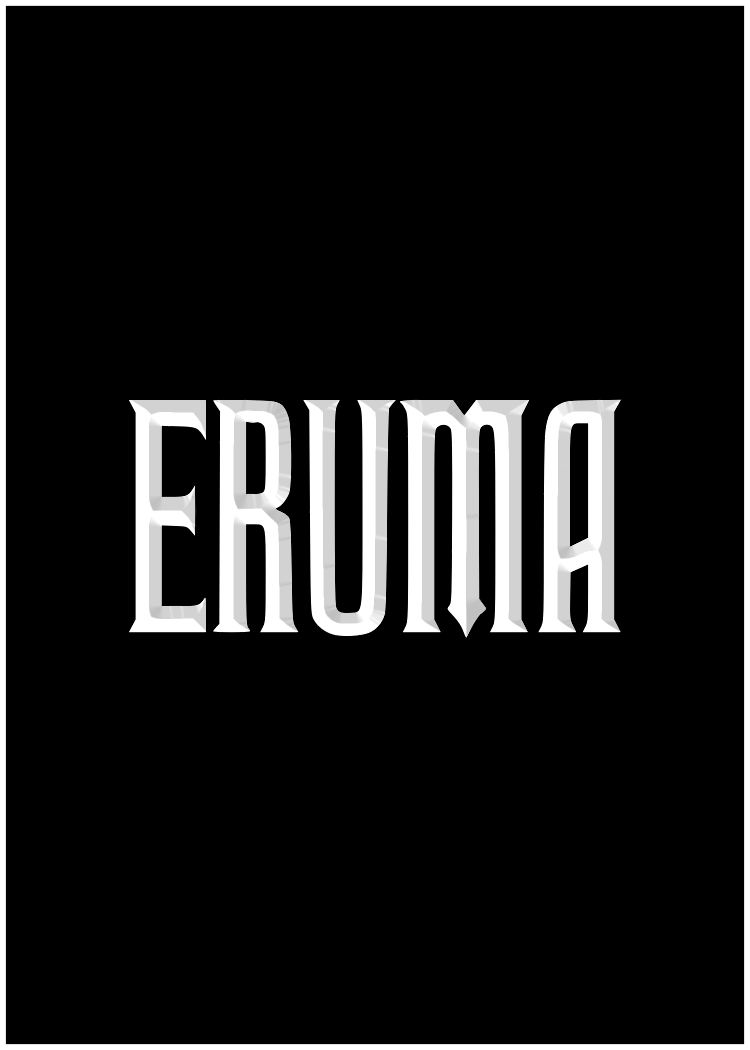
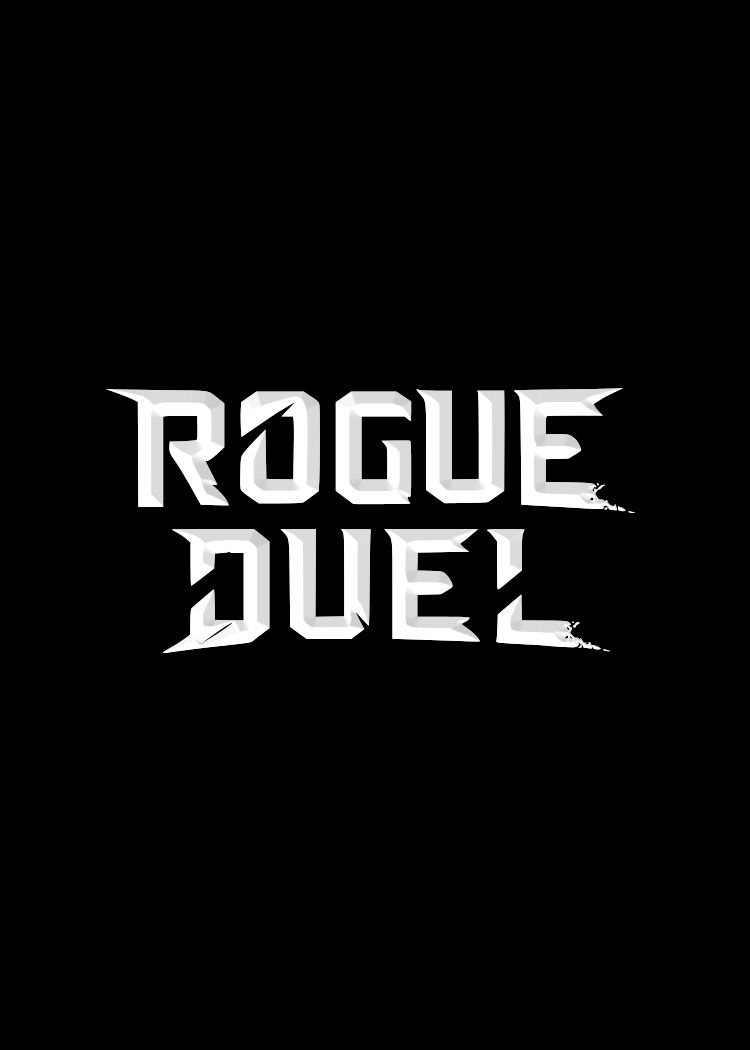
deckbuilder updates v18

Changed region(s): [[0.1533, 0.3657, 0.828, 0.64], [0.0, 0.0, 1.0, 1.0]]

diff --git a/cardsen/cardlisten.html b/cardsen/cardlisten.html
@@ -2,7 +2,7 @@
 <html lang="en">
 <head>
     <meta charset="UTF-8">
-    <title>Eruma Card Game Deckbuilder</title>
+    <title>Rogue Duel Deckbuilder</title>
     <style>
         /* Reset de estilos e ajustes gerais */
         body, html {
@@ -193,21 +193,21 @@
         // Função para carregar o arquivo de texto
         function loadTextFile() {
             const content = `Charlotte	|Assassin|	Kill 1 card in any position.	| 	|deckbuildercards_001.png
-Makuna	|Assassin|	Kill 2 Henchmen in any position.	| Impetuous	|deckbuildercards_002.png
+Makuna	|Assassin|	Kill 2 Henchmen in any position.	| 	|deckbuildercards_002.png
 Shimaru	|Assassin|	Whenever an enemy card flips face-up during this turn, kill it.	| Evasive	|deckbuildercards_003.png
-Picard and Boulle	|Assassin|	Kill 1 "Invulnerable" type card in any position.	| Slayer	|deckbuildercards_004.png
+Sicarii	|Assassin|	Kill 1 "Invulnerable" type card in any position.	| Slayer	|deckbuildercards_004.png
 Beetrice	|Assassin|	Whenever an enemy card steals a treasure during the opponent's turn, kill it.	| Flying	|deckbuildercards_005.png
 Toxique	|Assassin|	Whenever an enemy card flips face-up during the opponent's turn, kill it.	| 	|deckbuildercards_006.png
-Erzsebet	|Assassin|	Your cards can attack enemy face down cards.	| Invulnerable	|deckbuildercards_007.png
+Erzsebet	|Assassin|	Give "Invulnerable" type to 1 of your cards until the end of this turn.	| Invulnerable	|deckbuildercards_007.png
 Rhowl	|Assassin|	Flip all enemy cards face-down.	| Invulnerable	|deckbuildercards_008.png
 Tintin	|Assassin|	Give this card any Type.	| 	|deckbuildercards_009.png
 Grimas	|Assassin|	Use a Quick or Slow power from a card in any player’s Graveyard.	| 	|deckbuildercards_010.png
 Wicker	|Assassin|	Kill all enemy cards that do not move by the end of the opponent's turn.	| Slayer	|deckbuildercards_011.png
 Machado	|Assassin|	Kill all enemy cards in positions adjacent to this card.	| 	|deckbuildercards_012.png
-Muerte	|Assassin|	Draw up to 3 cards from your Graveyard.	| Impetuous	|deckbuildercards_013.png
+Muerte	|Assassin|	Draw up to 3 cards from your Graveyard.	| 	|deckbuildercards_013.png
 Sandiego	|Assassin|	Whenever this card kills another card during this turn, gain 2 treasures.	| 	|deckbuildercards_014.png
-Kuroshi	|Assassin|	Whenever your Assassins kill a card, gain 2 treasures.	| 	|deckbuildercards_015.png
-Peekaboo	|Assassin|	Move this card up to 3 positions this turn.	| 	|deckbuildercards_016.png
+Kuroshi	|Assassin|	Whenever your Assassins kill a card, gain 1 treasure.	| 	|deckbuildercards_015.png
+Peekaboo	|Assassin|	Move this card up to 3 positions.	| 	|deckbuildercards_016.png
 Karl and Sylv	|Assassin|	Kill 1 card in any position and move this card to the position of the killed card.	| Flying	|deckbuildercards_017.png
 Gallagher	|Assassin|	Whenever the opponent spends 1 action point, move this card 1 position, including to their zones.	| 	|deckbuildercards_018.png
 Araun	|Assassin|	Kill all exhausted enemy cards.	| 	|deckbuildercards_019.png
@@ -225,11 +225,11 @@ Hanged Man	|Thief|	For each card you return to your hand during this turn, choos
 Didi and Dimbo	|Thief|	When this card dies, you gain 3 treasures.	| 	|deckbuildercards_031.png
 Magnete	|Thief|	Choose 1 enemy card and keep the treasures that card steals.	| 	|deckbuildercards_032.png
 Lavenza	|Thief|	Place 1 Spy from your Deck into your hand and shuffle this card back into your Deck.	| Regenerative	|deckbuildercards_033.png
-Barrel	|Thief|	Steal 3 treasures if this card is in the Treasure Zone.	| Strongman	|deckbuildercards_034.png
+Barrel	|Thief|	Steal 3 treasures if this card is in the Treasure Zone.	| Strong	|deckbuildercards_034.png
 Flamel	|Thief|	Double your Treasure.	| 	|deckbuildercards_035.png
 Renart	|Thief|	Whenever a "Flying" type card returns to your hand this turn, gain 1 treasure.	| 	|deckbuildercards_036.png
 Sayyida	|Thief|	Whenever this card steals treasures, kill 1 card in the same column as this one.	| 	|deckbuildercards_037.png
-Otylia	|Thief|	Whenever a player discards 1 card, gain 2 treasures.	| 	|deckbuildercards_038.png
+Otylia	|Thief|	Whenever a player discards 1 card, gain 2 treasures.	| Vengeful	|deckbuildercards_038.png
 Baba	|Thief|	Gain 1 action point for each of your exhausted cards.	| Regenerative	|deckbuildercards_039.png
 Ganzu	|Thief|	Steal 2 treasures for each card you draw during this turn.	| 	|deckbuildercards_040.png
 Rox	|Thief|	Whenever an enemy card flips face-up during the opponent’s turn, gain 1 treasure.	| 	|deckbuildercards_041.png
@@ -241,13 +241,13 @@ Alitza	|Thief|	Whenever you spend 1 action point this turn, move this card 1 pos
 White King	|Spy|	Enemy cards cannot move on the opponent’s turn.	| 	|deckbuildercards_047.png
 Naptali	|Spy|	Enemy cards cannot flip face-up on the opponent's turn.	| 	|deckbuildercards_048.png
 Bumi	|Spy|	Destroy all the treasure positions (flip the Treasure cards). Destroyed positions cannot be used to steal.	| 	|deckbuildercards_049.png
-Dona Aranha	|Spy|	Enemy cards cannot return to the opponent's hand.	| 	|deckbuildercards_050.png
+Lady Spider	|Spy|	Enemy cards cannot return to the opponent's hand.	| 	|deckbuildercards_050.png
 Trevor	|Spy|	Flip all face-up cards face-down and flip all face-down cards face-up.	| 	|deckbuildercards_051.png
 Ventus	|Spy|	Move all enemy cards 1 position backward if that position is empty.	| Flying	|deckbuildercards_052.png
 Mr. Ivanov	|Spy|	Double your action points after triggering this power.	| 	|deckbuildercards_053.png
 Tormenta	|Spy|	Flip all enemy cards face-up.	| Flying	|deckbuildercards_054.png
 Nevoir	|Spy|	Flip all your cards face-down.	| 	|deckbuildercards_055.png
-Cannon	|Spy|	Play 1 card from your hand face-up in the Treasure Zone position in the same column as this card, if that position is empty.	| Strongman	|deckbuildercards_056.png
+Cannon	|Spy|	Play 1 card from your hand face-up in the Treasure Zone position in the same column as this card, if that position is empty.	| Strong	|deckbuildercards_056.png
 Cinder	|Spy|	Kill all face-up cards.	| Regenerative	|deckbuildercards_057.png
 Juju	|Spy|	Neither player’s Treasure can be altered during the opponent's turn.	| 	|deckbuildercards_058.png
 Eldritch	|Spy|	Return up to 4 cards adjacent to this one to their owner’s hand.	| 	|deckbuildercards_059.png
@@ -256,12 +256,12 @@ Kraemer	|Spy|	Halve the opponent's Treasure, round it up.	| Slayer	|deckbuilderc
 Glacáin	|Spy|	Declare 1 class. If the opponent draws a card with that class, they lose 2 action points. They can discard it to lose only 1 action point.	| Regenerative	|deckbuildercards_062.png
 Hodur	|Spy|	Move 1 enemy card to any empty position in your Zone 1.	| Slayer	|deckbuildercards_063.png
 Ekate	|Spy|	The opponent will not draw a card in their next Draw Phase.	| 	|deckbuildercards_064.png
-Taika	|Spy|	If you cannot draw a card, you are the winner.	| Invulnerable	|deckbuildercards_065.png
-Wivern	|Spy|	No card can move to adjacent positions to this card on the opponent's turn.	| 	|deckbuildercards_066.png
+Taika	|Spy|	If your Deck runs out, you are the winner.	| Invulnerable	|deckbuildercards_065.png
+Wivern	|Spy|	Other cards cannot move to positions adjacent to this card.	| 	|deckbuildercards_066.png
 Trogg	|Spy|	Move 1 card in an adjacent or diagonal position to this card to another adjacent or diagonal position, if that position is empty.	| Obstacle	|deckbuildercards_067.png
 Malac	|Spy|	Whenever one of your cards is blocked, gain 1 action point.	| 	|deckbuildercards_068.png
 Gévaudan	|Spy|	Enemy cards cannot be readied on the opponent's turn.	| Sneaky	|deckbuildercards_069.png
-Sofia	|Spy|	The Type of all face up cards do not work.	| 	|deckbuildercards_070.png
+Sofia	|Spy|	The Type of all face up cards do not work.	| Regenerative	|deckbuildercards_070.png
 Al Haddin	|Spy|	Look through all cards in your Deck and place 3 cards on the top of it in any order.	| 	|deckbuildercards_071.png
 Octavius	|Spy|	Whenever an enemy card flips face-up on the opponent's turn, exhaust it.	| Invulnerable	|deckbuildercards_072.png
 Caelia	|Spy|	Swap positions with another of your cards and flip both face down.	| Sneaky	|deckbuildercards_073.png
@@ -276,9 +276,9 @@ Hadini	|Maniac|	Create 1 "Frog".	| 	|deckbuildercards_081.png
 Grotheus	|Maniac|	Create 1 "Demon".	| Invulnerable	|deckbuildercards_082.png
 Hameline	|Maniac|	Create 1 "Crow" in every empty position in the Treasure Zone.	| 	|deckbuildercards_083.png
 Akhrunos	|Maniac|	Create 1 "Predators".	| Invulnerable	|deckbuildercards_084.png
-Gretel	|Maniac|	Create 1 "Rat" or 1 "Bear" and banish this card.	| Impetuous	|deckbuildercards_085.png
+Gretel	|Maniac|	Create 1 "Rat" or 1 "Bear" and banish this card.	| 	|deckbuildercards_085.png
 Kthul'haazgar	|Maniac|	Create 1 "Madness". You can only create up to 1 "Madness" per turn.	| Invulnerable	|deckbuildercards_086.png
-Pompeu	|Maniac|	Create 1 "Boulder".	| Strongman	|deckbuildercards_087.png
+Pompeu	|Maniac|	Create 1 "Boulder".	| Strong	|deckbuildercards_087.png
 Guilhotine	|Maniac|	Create 1 "Headless Guard".	| 	|deckbuildercards_088.png
 Daisy and Violet	|Maniac|	Create 2 "Eerie Song". You can only create up to 2 "Eerie Song" per turn.	| 	|deckbuildercards_089.png
 Euryale	|Maniac|	Whenever an enemy card flips face-up on the opponent's turn, create 1 "Statue".	| 	|deckbuildercards_090.png
@@ -292,7 +292,7 @@ Pirate	|Henchman|	This card has the Thief Skill.	| 	|deckbuildercards_097.png
 Shark	|Henchman|	This card has the Assassin Skill.	| 	|deckbuildercards_098.png
 Zombie	|Henchman|	Kill 1 enemy card in the same zone where you played this card. If a card dies by this effect, create 1 "Zombie".	| 	|deckbuildercards_099.png
 Illusion	|Henchman|	Place this card in your hand. You may discard it to prevent an enemy card's attack (the opponent loses that action point).	| 	|deckbuildercards_100.png
-Demon	|Henchman|	Place this card on top of your Deck. Gain 2 action points when you draw it, then discard it.	| Curse	|deckbuildercards_101.png
+Demon	|Henchman|	Place this card on top of your Deck. Gain 2 action points when you draw it, then discard it.	| Invulnerable	|deckbuildercards_101.png
 Headless Guard	|Henchman|	The opponent must attack this card whenever possible.	| 	|deckbuildercards_102.png
 Madness	|Henchman|	Place this card in the opponent's hand. If there are 3 "Madness" in their hand, you are the winner.	| Curse	|deckbuildercards_103.png
 Crow	|Henchman|	This card has "Flying" type.	| Flying	|deckbuildercards_104.png
@@ -302,13 +302,13 @@ Statue	|Henchman|	Banish 1 enemy card that flipped face up and play this card in
 Eerie Song	|Henchman|	Place this card in the opponent's hand. They lose 1 action point for each pair of "Eerie Song" in their hand.	| Curse	|deckbuildercards_108.png
 Rat	|Henchman|	Place this card in the opponent's hand. Whenever the opponent draws a card, they lose 1 treasure.	| Curse	|deckbuildercards_109.png
 Bear	|Henchman|	Place this card in the opponent's hand. Whenever a card returns to the opponent's hand, it is discarded.	| Curse	|deckbuildercards_110.png
-Maiden	|Henchman|	The first player to kill 7 "Maiden" is the winner.	| 	|deckbuildercards_111.png
+Maiden	|Henchman|	If 7 "Maiden" die, you are the winner.	| 	|deckbuildercards_111.png
 Plague	|Henchman|	Place this card in the opponent's hand. While holding this card, they must discard 1 card from the top of their Deck at their End Phase.	| Curse	|deckbuildercards_112.png
 Sheep	|Henchman|	Play this card in any empty position on the opponent's Zone 1.	| 	|deckbuildercards_113.png
-Pumpkin	|Henchman|	At any time during your turn, discard this card and create 1 "Borobo" in its position.	| 	|deckbuildercards_114.png
-Borobo	|Henchman|	Return 1 enemy card in any position to the opponent's hand.	| 	|deckbuildercards_115.png
+Pumpkin	|Henchman|	In your Draw Phase, discard this card and create 1 "Borobo" in the same position.	| 	|deckbuildercards_114.png
+Borobo	|Henchman|	Return 1 card in any position to the bottom of its owner’s Deck. Henchmen return to the Extra Deck.	| 	|deckbuildercards_115.png
 Map Parts	|Henchman|	If there are 3 'Map Parts' in your hand, gain 5 treasures and discard them.	| 	|deckbuildercards_116.png
-Predators	|Henchman|	Place this card on top of the opponent's Deck. If they have an Assassin in their hand, discard this card. Otherwise, shuffle it back into their Deck.	| Curse	|deckbuildercards_117.png`;
+Predators	|Henchman|	Place this card on top of the opponent's Deck. If they have an Assassin in their hand, discard this card. Otherwise, shuffle it back into their Deck.	| 	|deckbuildercards_117.png`;
 
             // Agora você tem o conteúdo do arquivo de texto (content).
             // Analise o conteúdo e preencha as informações das cartas e as imagens.
@@ -407,7 +407,7 @@ Predators	|Henchman|	Place this card on top of the opponent's Deck. If they have
         const url = URL.createObjectURL(blob);
         const link = document.createElement("a");
         link.setAttribute("href", url);
-        link.setAttribute("download", "deck_eruma.csv");
+        link.setAttribute("download", "deck_rogueduel.csv");
         link.style.display = "none";
         document.body.appendChild(link);
         link.click();
@@ -422,29 +422,29 @@ Predators	|Henchman|	Place this card on top of the opponent's Deck. If they have
         May be flipped face down.<br>
         <strong>Flying</strong><br>
         May return to your hand.<br>
-        <strong>Impetuous</strong><br>
-        Can attack face down cards.<br>
         <strong>Invulnerable</strong><br>
-        May only be attacked or killed by a "Slayer".<br>
+        May only be attacked or killed by a "Slayer".<br>(dies if it attacks assassins)<br>
         <strong>Obstacle</strong><br>
-        May only be attacked or killed by a "Strongman".<br>
+        May only be attacked or killed by a "Strong".<br>(dies if it attacks assassins)<br>
         <strong>Regenerative</strong><br>
         May return to your hand when it dies.<br>
         <strong>Slayer</strong><br>
         May attack and kill an "Invulnerable".<br>
         <strong>Sneaky</strong><br>
-        Kills the card it blocks (spy only).<br>
-        <strong>Strongman</strong><br>
+        Kills the card it blocks.<br>
+        <strong>Strong</strong><br>
         May attack and kill an "Obstacle".<br>
+        <strong>Vengeful</strong><br>
+        Kills the spy that blocks it.<br>
     </p>
     <h3>Power Speed</h3>
     <p>
 <strong>Quick</strong><br>
-This happens when you trigger it on your turn and it's over.<br>
+The power resolves the turn it is used and it's over.<br>
 <strong>Slow</strong><br>
-This will happen on the opponent's next turn, in any phase, whenever the condition is met. When they pass their turn, it's over.<br>
+The power resolves on the opponent's next turn and it's over.<br>
 <strong>Ongoing</strong><br>
-After triggering it in your turn, this will happen whenever the condition is met, as long as the card remains face-up on the Playfield. The card is exhausted, cannot be ready and you don't need to spend more points.<br>
+The power begins resolving on the turn it is used and continues on both players' turns. The card is not readied in your Phase 2.<br>
     </p>
     <p style="text-align:center"><br><br>Copyright © 2023-2025 Fabio Esteves. All rights reserved.</p>
 </body>

diff --git a/cardspt/cardlistpt.html b/cardspt/cardlistpt.html
@@ -2,7 +2,7 @@
 <html lang="pt">
 <head>
     <meta charset="UTF-8">
-    <title>Eruma Card Game Deckbuilder</title>
+    <title>Rogue Duel Deckbuilder</title>
     <style>
         /* Reset de estilos e ajustes gerais */
         body, html {
@@ -193,12 +193,12 @@
         // Função para carregar o arquivo de texto
         function loadTextFile() {
             const content = `Charlotte	|Assassino|	Mate 1 carta em qualquer posição.	| 	|deckbuildercards_001.png
-Makuna	|Assassino|	Mate ou descarte até 2 Capangas.	| 	|deckbuildercards_002.png
+Makuna	|Assassino|	Mate 2 Capangas em qualquer posição.	| 	|deckbuildercards_002.png
 Shimaru	|Assassino|	Mate todas as cartas inimigas que virarem pra cima neste turno.	| Evasiva	|deckbuildercards_003.png
 Sicarii	|Assassino|	Mate 1 carta tipo "Invulnerável" em qualquer posição.	| Exterminador	|deckbuildercards_004.png
 Beetrice	|Assassino|	Mate todas as cartas inimigas que roubarem tesouros no turno do oponente.	| Voador	|deckbuildercards_005.png
 Toxique	|Assassino|	Mate todas as cartas inimigas que virarem pra cima no turno do oponente.	| 	|deckbuildercards_006.png
-Erzsebet	|Assassino|	Dê Habilidade de Assassino pra uma carta sua até o fim do turno do oponente.	| Invulnerável	|deckbuildercards_007.png
+Erzsebet	|Assassino|	Dê o tipo "Invulnerável" pra 1 carta sua até o fim deste turno.	| Invulnerável	|deckbuildercards_007.png
 Rhowl	|Assassino|	Vire todas as cartas inimigas pra baixo.	| Invulnerável	|deckbuildercards_008.png
 Tintin	|Assassino|	Escolha um tipo para esta carta.	| 	|deckbuildercards_009.png
 Grimas	|Assassino|	Use um poder Rápido ou Lento de uma carta no Cemitério de qualquer jogador.	| 	|deckbuildercards_010.png
@@ -407,7 +407,7 @@ Predadores	|Capanga|	Coloque esta carta no topo do Baralho do oponente. Descarte
         const url = URL.createObjectURL(blob);
         const link = document.createElement("a");
         link.setAttribute("href", url);
-        link.setAttribute("download", "deck_eruma.csv");
+        link.setAttribute("download", "deck_rogueduel.csv");
         link.style.display = "none";
         document.body.appendChild(link);
         link.click();
@@ -423,11 +423,11 @@ Predadores	|Capanga|	Coloque esta carta no topo do Baralho do oponente. Descarte
     <strong>Fortão</strong><br>
     Pode atacar e matar um "Obstáculo".<br>
     <strong>Invulnerável</strong><br>
-    Só pode ser atacada ou morta por um "Exterminador".<br>
+    Só pode ser atacada ou morta por um "Exterminador".<br>(morre se atacar assassinos)<br>
     <strong>Maldição</strong><br>
     Só pode ser retirada da mão por descarte.<br>
     <strong>Obstáculo</strong><br>
-    Só pode ser atacada ou morta por um "Fortão".<br>
+    Só pode ser atacada ou morta por um "Fortão".<br>(morre se atacar assassinos)<br>
     <strong>Regenerativa</strong><br>
     Pode retornar pra sua mão quando morrer.<br>
     <strong>Sorrateira</strong><br>
